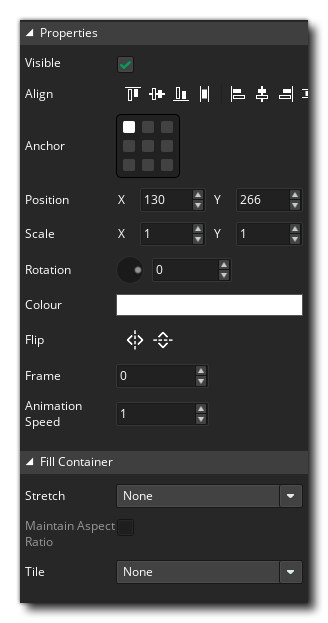
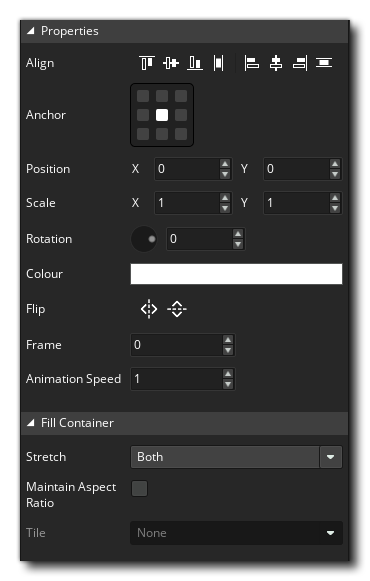
docs(feature): UIL - Remove visible toggle from element properties

diff --git a/Manual/contents/The_Asset_Editors/Room_Properties/UI_Layers.htm b/Manual/contents/The_Asset_Editors/Room_Properties/UI_Layers.htm
@@ -77,7 +77,7 @@
   </ul>
   <p>You can use an instance&#39;s x/y position or <span class="inline2">bbox_*</span> variables to do manual checks against the mouse on the GUI layer, using the <span class="inline3_func"><a data-xref="{title}" href="../../GameMaker_Language/GML_Reference/Game_Input/Device_Input/device_mouse_x_to_gui.htm">device_mouse_x_to_gui</a></span> / <span class="inline3_func"><a data-xref="{title}" href="../../GameMaker_Language/GML_Reference/Game_Input/Device_Input/device_mouse_y_to_gui.htm">device_mouse_y_to_gui</a></span> functions.</p>
   <h2>Inspector Properties</h2>
-  <p>You can select a UI layer, Flex Panel or element in the Element List and its properties will be shown in the Inspector. The sections below describe the properties shown for each type of item in the list.</p>
+  <p>You can select a UI layer, Flex Panel or Asset Element in the Element List and its properties will be shown in the Inspector. Besides being able to change the Element name and associated asset (if any), there are other properties which are described below for each type of Element.</p>
   <p>These properties are represented at runtime by the <a data-xref="{title}" href="../../GameMaker_Language/GML_Reference/Flex_Panels/Flex_Panels_Styling.htm">Flex Panel Struct Members</a>.</p>
   <h3>UI Layer Properties</h3>
   <p><img class="center" src="../../assets/Images/Asset_Editors/UILayers/UIL_Properties.png" />A UI layer contains the following main properties:</p>
@@ -118,7 +118,7 @@
   </ul>
   <p>A Flex Panel also contains flex and spacing properties, which are the same as described in the previous section for &quot;<strong>UI Layer Properties</strong>&quot;.</p>
   <h3>Element Properties</h3>
-  <p><img class="center" src="../../assets/Images/Asset_Editors/UILayers/UIL_ElementProps.png" />For elements of all asset types, you can toggle visibility, change alignment, set the anchor for rotation, change the position, scale, rotation, colour, frame and animation speed.</p>
+  <p><img class="center" src="../../assets/Images/Asset_Editors/UILayers/UIL_ElementProps.png" />For elements of all asset types, you can change the alignment, set the anchor for rotation, change the position, scale, rotation, colour, frame and animation speed.</p>
   <p>The &quot;<strong>Fill Container</strong>&quot; settings allow the element to be stretched to fit its containing Flex Panel either on one of the axes or both axes. You can choose whether to maintain aspect ratio or not. These settings can be set to stretch and maintain aspect ratio by default through the <a href="../../Setting_Up_And_Version_Information/IDE_Preferences/Room_Editor_Preferences.htm">Preferences</a>.</p>
   <p>You can also tile the element throughout the containing Flex Panel.</p>
   <p>You will see some extra options based on the asset type:</p>
